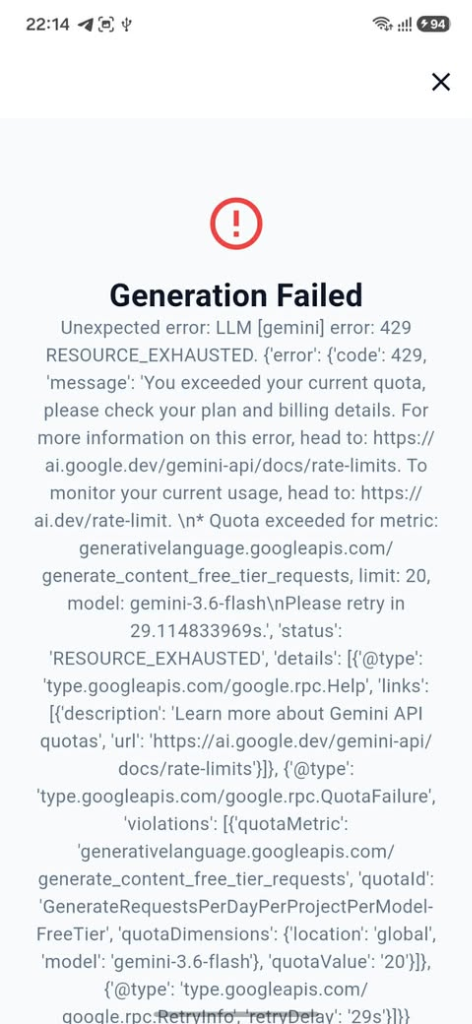
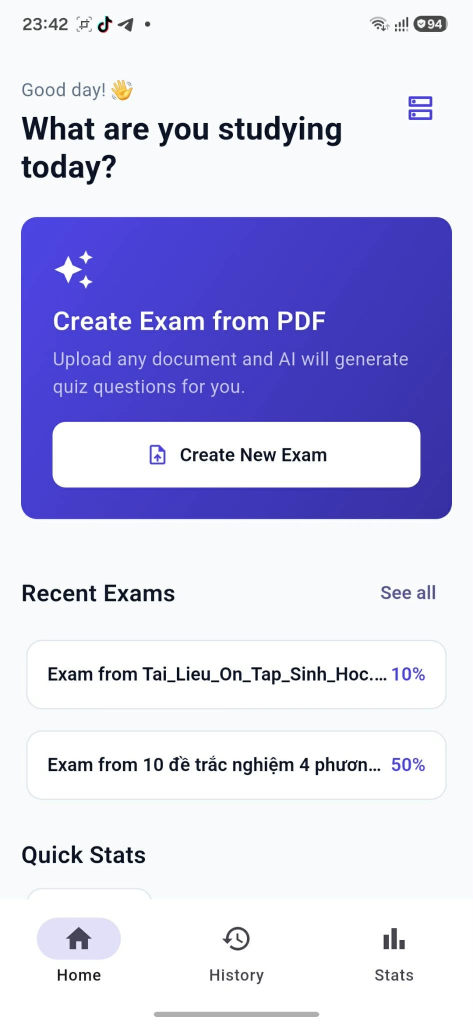
docs: showcase real Biology exam generated from Word doc in README

diff --git a/README.md b/README.md
@@ -1,7 +1,11 @@
-# Testo — AI-Powered Learning & Exam Generation Platform
+# Testo — AI-Powered Learning & Exam Generation Platform
 
 <p align="center">
-  <img src="docs/screenshots/04_review_screen.png" width="280" alt="Testo App Review Screen" />
+  <img src="docs/screenshots/01_home_screen.png" width="240" alt="Testo Home Screen" />
+  &nbsp;&nbsp;&nbsp;&nbsp;
+  <img src="docs/screenshots/02_quiz_screen.png" width="240" alt="Testo Quiz Screen" />
+  &nbsp;&nbsp;&nbsp;&nbsp;
+  <img src="docs/screenshots/03_review_screen.png" width="240" alt="Testo Review Screen" />
 </p>
 
 <p align="center">
@@ -38,20 +42,16 @@ Unlike conventional exam generators that execute slow, quota-exhausting multi-ca
 ## 📱 App Walkthrough & Screenshots
 
 <p align="center">
-  <img src="docs/screenshots/01_home_screen.png" width="220" alt="Home Screen" />
+  <img src="docs/screenshots/01_home_screen.png" width="250" alt="Home Screen" />
   &nbsp;&nbsp;&nbsp;&nbsp;
-  <img src="docs/screenshots/03_generating_screen.png" width="220" alt="Generating Screen" />
+  <img src="docs/screenshots/02_quiz_screen.png" width="250" alt="Quiz Screen" />
   &nbsp;&nbsp;&nbsp;&nbsp;
-  <img src="docs/screenshots/04_review_screen.png" width="220" alt="Review Screen" />
-  &nbsp;&nbsp;&nbsp;&nbsp;
-  <img src="docs/screenshots/02_stats_screen.png" width="220" alt="Stats Screen" />
+  <img src="docs/screenshots/03_review_screen.png" width="250" alt="Review Screen" />
 </p>
 
-1. **Dashboard & Quick Actions**: Overview of recent exams, performance stats, and one-tap document upload.
-2. **Instant Document Processing**: Supports PDF and Word (`.docx`), stripping boilerplate headers, ads, and URLs.
-3. **Adaptive Quiz Engine**: Timed questions, interactive bookmarking, offline auto-saving with SQFlite.
-4. **Deep Review & Citations**: Full explanations for every choice, highlighting correct/incorrect options with citations referencing source pages.
-5. **Topic Analytics Dashboard**: Real-time tracking of strong vs. weak learning topics with progress bars.
+| 🏠 1. Home Dashboard | ⏱ 2. Interactive Timed Quiz | 🎯 3. In-Depth Review & Citations |
+| :--- | :--- | :--- |
+| **Instant Exam Access & Quick Stats**<br>• One-tap document upload (`PDF`, `DOCX`)<br>• Recent exam history & performance overview<br>• Clean Material 3 design system | **Adaptive Exam Experience**<br>• Real-time countdown timer & question navigator<br>• Topic classification & difficulty badges<br>• Offline-first response tracking via SQLite | **Syllabus-Aligned Verification**<br>• Instant feedback on correct/incorrect choices<br>• Detailed pedagogical explanations<br>• **Source page citation** (`Source: Trang 1, Phần 2`) |
 
 ---
 
